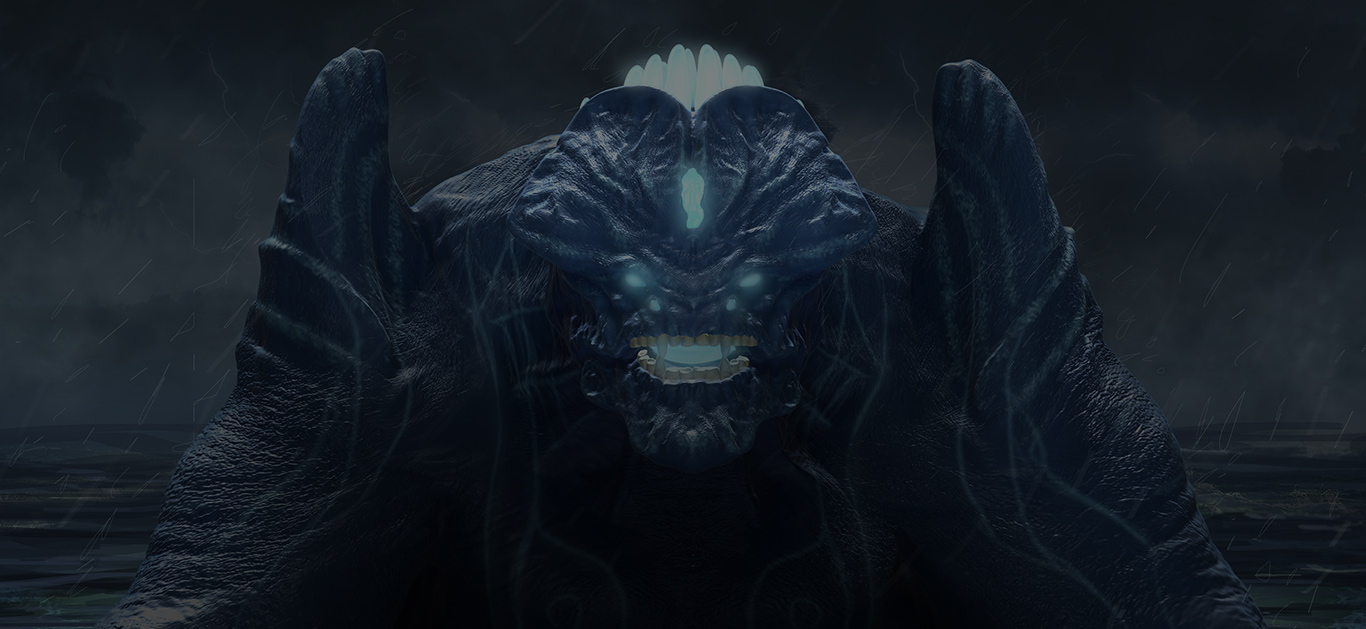
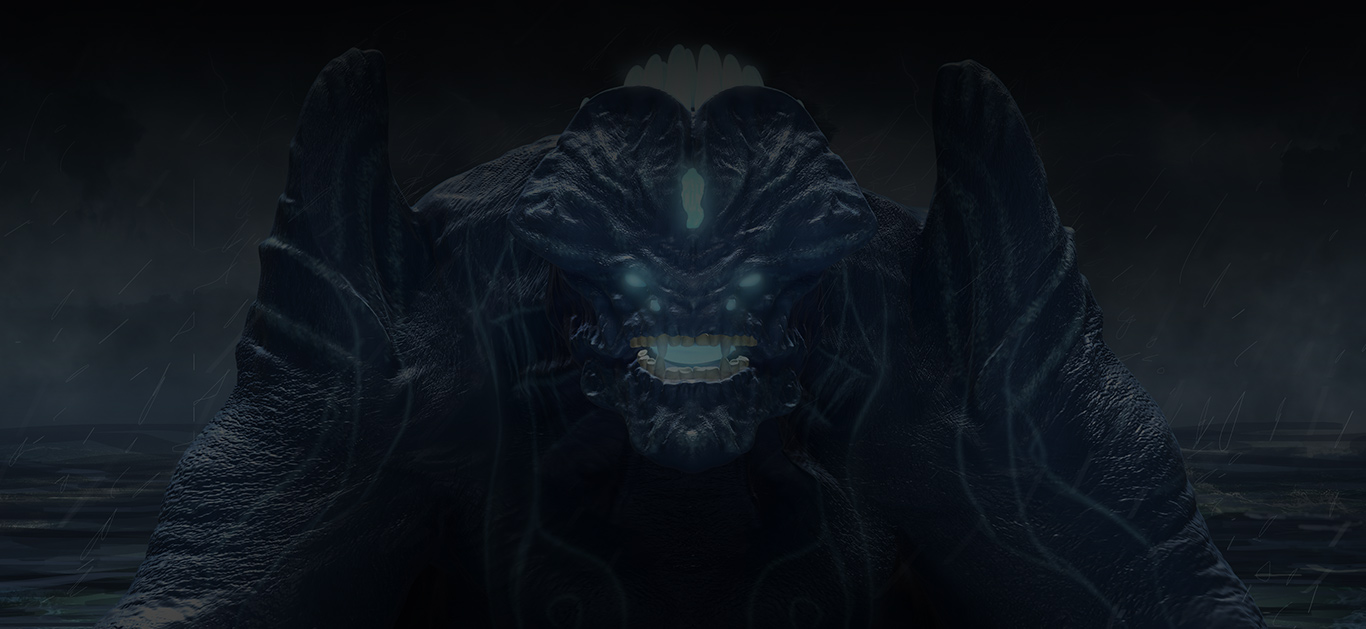
あ

diff --git a/assets/sass/_base.scss b/assets/sass/_base.scss
@@ -568,19 +568,6 @@ img{
       background-size: cover;
       background-position: center;
       position: relative;
-      z-index: 2;
-      &:after{
-        content: "";
-        width: 100%;
-        height: 50%;
-        position: absolute;
-        top: 0;
-        left: 0;
-        background: -moz-linear-gradient(top, rgba(0,0,0,1) 0%, rgba(0,0,0,0.99) 1%, rgba(0,0,0,0) 99%);
-        background: -webkit-linear-gradient(top, rgba(0,0,0,1) 0%,rgba(0,0,0,0.99) 1%,rgba(0,0,0,0) 99%);
-        background: linear-gradient(to bottom, rgba(0,0,0,1) 0%,rgba(0,0,0,0.99) 1%,rgba(0,0,0,0) 99%);
-        filter: progid:DXImageTransform.Microsoft.gradient( startColorstr='#000000', endColorstr='#00000000',GradientType=0 );
-      }
       div{
         display: flex;
         justify-content: center;

diff --git a/assets/css/style.css b/assets/css/style.css
@@ -704,18 +704,6 @@ img {
   background-size: cover;
   background-position: center;
   position: relative;
-  z-index: 2;
-}
-.main .wrapper #contact:after {
-  content: "";
-  width: 100%;
-  height: 50%;
-  position: absolute;
-  top: 0;
-  left: 0;
-  background: -webkit-gradient(linear, left top, left bottom, from(black), color-stop(1%, rgba(0, 0, 0, 0.99)), color-stop(99%, rgba(0, 0, 0, 0)));
-  background: linear-gradient(to bottom, black 0%, rgba(0, 0, 0, 0.99) 1%, rgba(0, 0, 0, 0) 99%);
-  filter: progid:DXImageTransform.Microsoft.gradient( startColorstr='#000000', endColorstr='#00000000',GradientType=0 );
 }
 .main .wrapper #contact div {
   display: -webkit-box;
